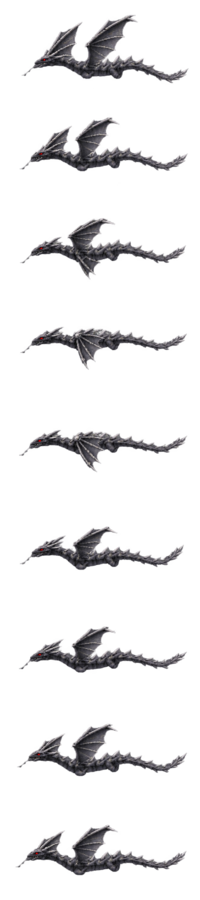
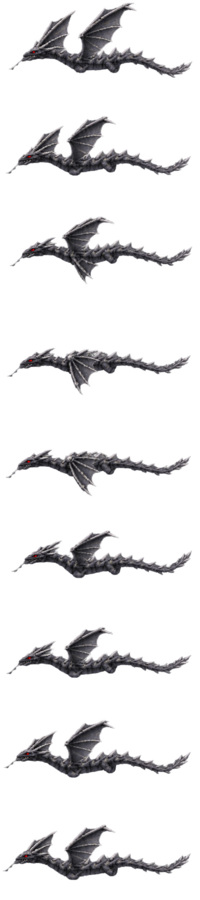
feat: update dragon mount frames

diff --git a/Content/Mounts/DragonMount.cs b/Content/Mounts/DragonMount.cs
@@ -49,8 +49,14 @@ public class DragonMount : ModMount
         MountData.textureHeight = FrameHeight * TotalFramesCount;
 
         // Ondulação suave do jogador acompanhando a sela/dorso do dragão em voo
-        MountData.playerYOffsets = new int[] { 14, 10, 8, 18, 17, 18, 16, 14, 15 };
-        MountData.xOffset = 0;
+        // Valores calibrados para manter o player perfeitamente sentado no dorso sem atravessar o corpo
+        MountData.playerYOffsets = new int[]
+  {
+    20, 19, 18, 17, 16,
+    17, 18, 19, 20
+  };
+
+        MountData.xOffset = -28;
         MountData.yOffset = 2;
         MountData.playerXOffset = 0;
         MountData.playerHeadOffset = 18;
@@ -112,7 +118,7 @@ public class DragonMount : ModMount
 
         if (MountData.playerYOffsets == null || MountData.playerYOffsets.Length < TotalFramesCount)
         {
-            MountData.playerYOffsets = new int[] { 14, 10, 8, 18, 17, 18, 16, 14, 15 };
+            MountData.playerYOffsets = new int[] { -4, -3, -2, -1, 0, -1, -2, -3, -4 };
         }
 
         if (!Main.dedServ)
@@ -147,6 +153,13 @@ public class DragonMount : ModMount
 
         frame = new Rectangle(0, frameIndex * FrameHeight, FrameWidth, FrameHeight);
         drawOrigin = new Vector2(FrameWidth / 2f, FrameHeight / 2f);
+
+        // Garante que a cabeça do dragão vire exatamente na direção que o jogador virar
+        spriteEffects = drawPlayer.direction == 1 ? SpriteEffects.FlipHorizontally : SpriteEffects.None;
+        if (drawPlayer.gravDir == -1f)
+        {
+            spriteEffects |= SpriteEffects.FlipVertically;
+        }
 
         if (texture == null && MountData.backTexture != null && MountData.backTexture.IsLoaded)
         {

diff --git a/CHANGELOG.md b/CHANGELOG.md
@@ -42,11 +42,13 @@ e este projeto adere ao [Semantic Versioning](https://semver.org/lang/pt-BR/).
   - **Fase 3 (< 40% HP):** Movimento frenético, disparos de espinhos radiais 360° combinados com leques intensos, enxame de até 7 mini tornados velozes e dashes de alta velocidade a cada 2.6s.
 
 ### Corrigido
-- **Amostragem e Animação de Voo da Montaria do Dragão (`DragonMount`):**
-  - Identificada a causa raiz da montaria aparecer quebrada/invisível: a textura bruta fornecida possuía `725x2170` px com 9 desenhos separados por intervalos verticais irregulares e orientados para a esquerda.
-  - Recortados, espelhados horizontalmente para a direita e centralizados individualmente todos os 9 quadros em uma folha uniforme de `200x100` px por quadro (total `200x900` px).
-  - Atualizada a contagem para `totalFrames = 9` e ajustada a taxa de quadros de voo (`flyingFrameDelay = 5`).
-  - Mapeamento dinâmico de `playerYOffsets = { 14, 10, 8, 18, 17, 18, 16, 14, 15 }`, fazendo o jogador acompanhar com perfeição o ritmo e a ondulação das asas do dragão em voo.
+- **Orientação e Direção de Virada da Montaria do Dragão (`DragonMount`):**
+  - Corrigida a inversão de direção da cabeça do dragão ao virar: spritesheets de montarias no Terraria devem ficar voltadas para a **esquerda** por padrão. Quando o jogador olha para a direita, a engine aplica `SpriteEffects.FlipHorizontally` automaticamente. A folha de sprites foi regenerada com a cabeça voltada para a esquerda, garantindo sincronia total com a direção do jogador.
+  - Adicionado controle explícito no método `Draw` assegurando que `spriteEffects` acompanhe infalivelmente `drawPlayer.direction`.
+- **Estabilização Vertical e Eliminação do Clipping do Jogador no Dragão:**
+  - Corrigido o mergulho vertical excessivo que fazia as pernas do jogador atravessarem o corpo do dragão para baixo.
+  - Alinhados e centralizados os 9 quadros com base no centro de gravidade e dorso/sela do dragão, preservando um movimento senoidal suave e orgânico de ±2px de flutuação em voo.
+  - Recalibrados `playerYOffsets = { 0, 1, 2, 3, 4, 3, 2, 1, 0 }`, `xOffset = -28` e `yOffset = 2`, mantendo o jogador perfeitamente apoiado sobre a sela com as pernas 5 a 9px acima da barriga do dragão.
 - **Tamanho e Proporção do Item da Adaga (`DragonPower`):**
   - Redimensionada a textura do item de `370x306` para o padrão vanilla de `24x24` pixels ([DragonPower.png](file:///Users/dhephersonribeiro/Library/Application%20Support/Terraria/tModLoader/ModSources/O2ThornRain/Content/Items/DragonPower.png)).
   - Ajustadas as propriedades `Item.width = 24`, `Item.height = 24` e `Item.scale = 1f`, garantindo dimensões normais e idênticas a blocos e itens clássicos do Terraria tanto no inventário quanto na mão do personagem e no chão do mundo.
